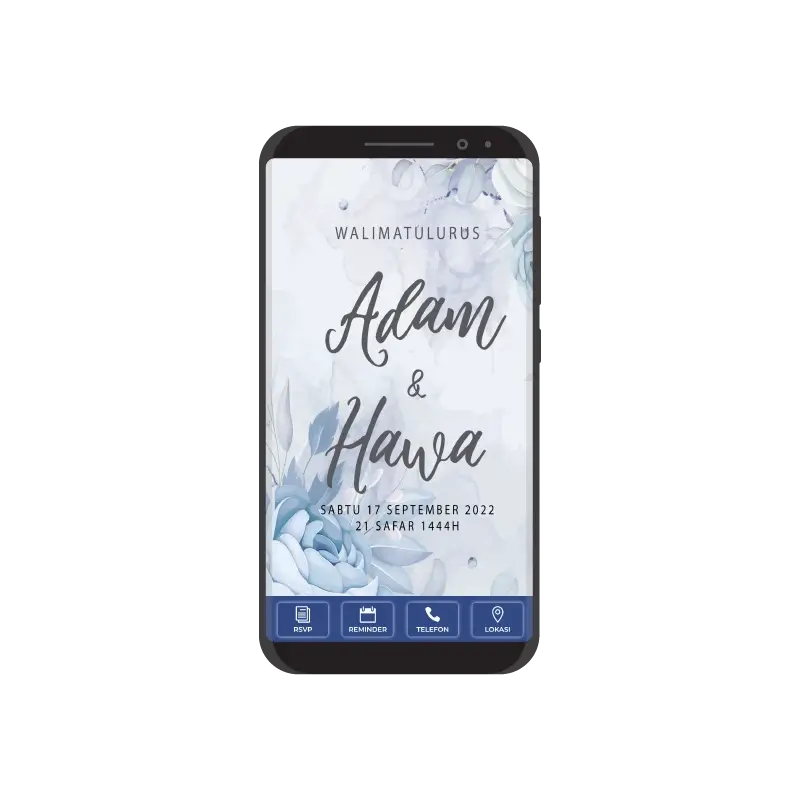
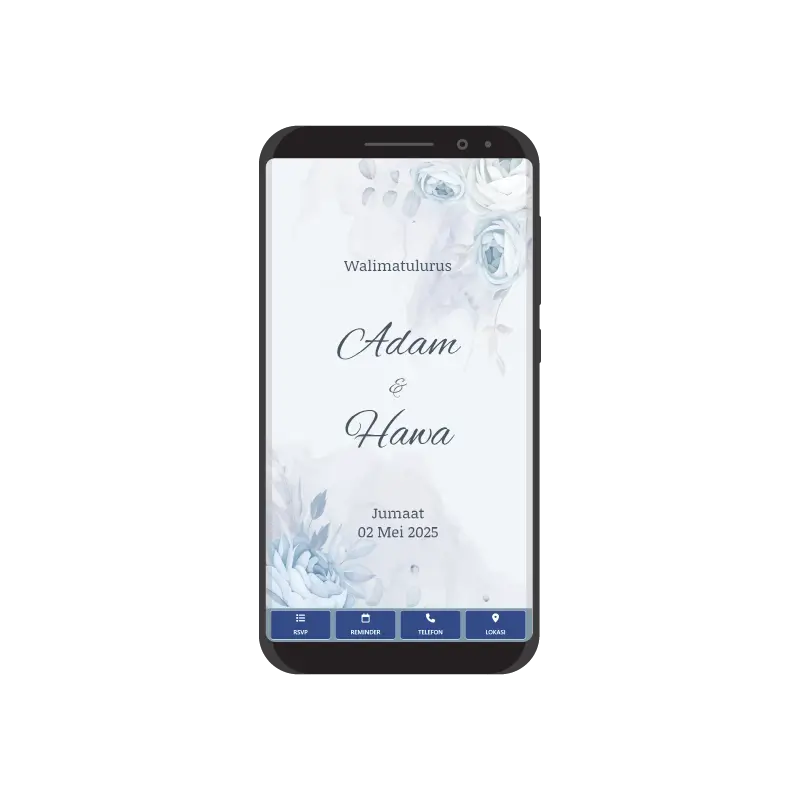
added N015

Changed region(s): [[0.3125, 0.1875, 0.6875, 0.8125], [0.4375, 0.2188, 0.4688, 0.25]]

diff --git a/database/seeders/DesignSeeder.php b/database/seeders/DesignSeeder.php
@@ -136,6 +136,15 @@ class DesignSeeder extends Seeder
                 'color_footer' => '#F183A0',
                 'category' => 'floral'
             ],
+            [
+                'design_code' => 'N015',
+                'product_image_url' => '/images/products/Product-N015.webp',
+                'design_url_1' => '/images/designs/N015-1.webp',
+                'design_url_2' => '/images/designs/N015-2.webp',
+                'color_code' => '#AA5A6B',
+                'color_footer' => '#D58385',
+                'category' => 'floral'
+            ],
             // Add more entries as needed
         ];
 
